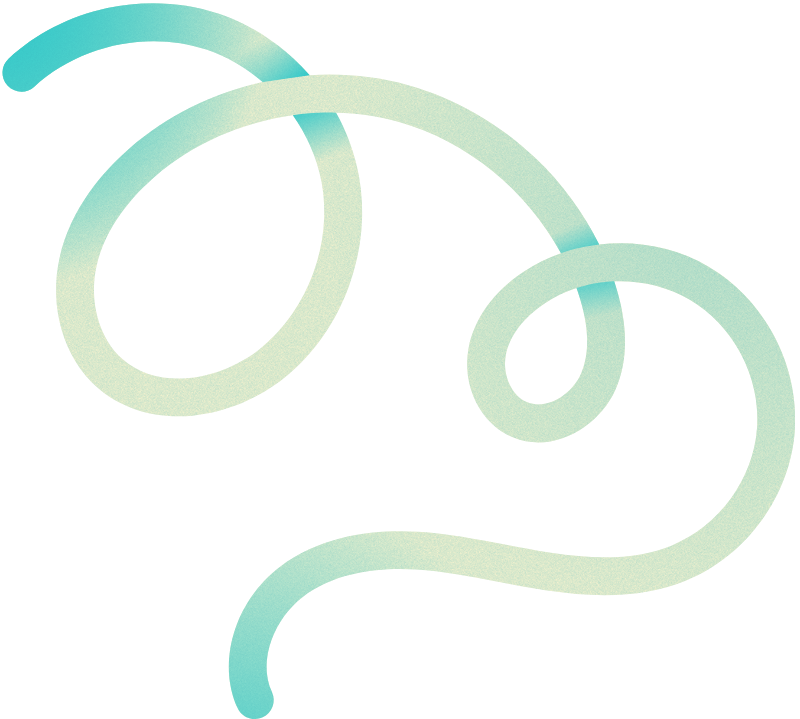
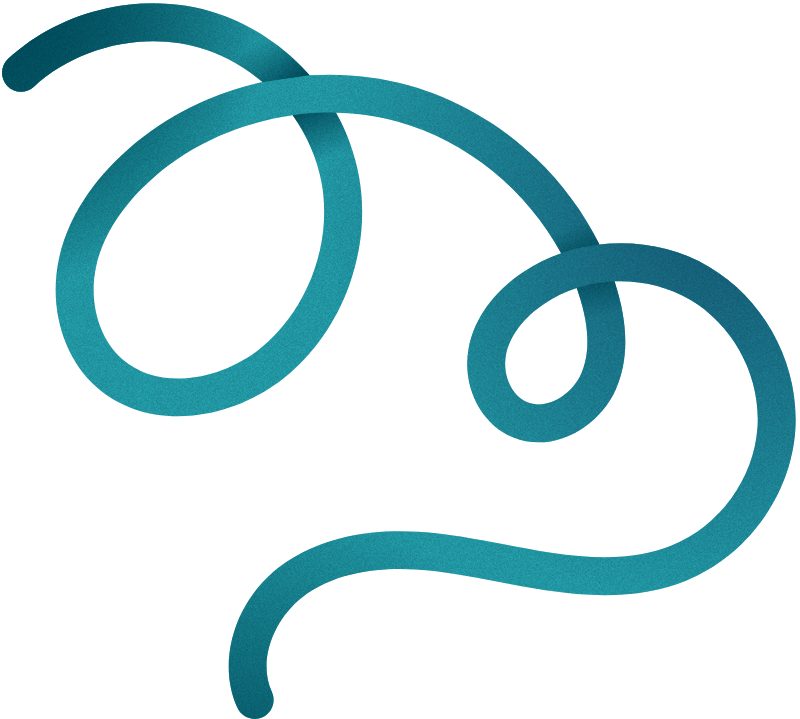
mudando design AAAAAAA

Changed region(s): [[0.0, 0.0, 1.0, 1.0]]

diff --git a/canvas.js b/canvas.js
@@ -1,9 +1,13 @@
-const canvas = document.getElementById('canvasInicial');
+const canvas = document.querySelector('canvas')
+
+const local = window.location.pathname
 
 const canvasWidth = window.innerWidth
 const canvasheight = window.innerHeight
 canvas.width = canvasWidth
 canvas.height = canvasheight
+
+console.log(window)
 var ctx = canvas.getContext('2d')
 
 var mouse = {
@@ -11,13 +15,13 @@ var mouse = {
     y: undefined
 }
 
-window.addEventListener('mousemove', (event)=>{
+window.addEventListener('mousemove', (event) => {
     const rect = canvas.getBoundingClientRect();
     mouse.x = event.clientX - rect.left;
     mouse.y = event.clientY - rect.top;
 })
 
-let colorArr = [
+let colorArrIndex = [
     '#5dd0de',
     '#f7f3cf',
     '#27b1bf',
@@ -25,38 +29,48 @@ let colorArr = [
     '#176585'
 ]
 
-function Circle(x,y,dx,dy,radius){
+let colorArr = [
+    '#ffffff'
+]
+
+
+function Circle(x, y, dx, dy, radius) {
     this.x = x;
     this.y = y;
     this.dx = dx;
     this.dy = dy;
     this.radius = radius;
-    this.color = colorArr[Math.floor(Math.random() * colorArr.length)]
+
+    if (local === '/index.html') {
+        this.color = colorArrIndex[Math.floor(Math.random() * colorArrIndex.length)]
+    } else {
+        this.color = colorArr[Math.floor(Math.random() * colorArr.length)]
+    }
 
     this.draw = () => {
         ctx.beginPath();
-        ctx.arc( this.x , this.y , this.radius, 0 , Math.PI * 2 , false)
+        ctx.arc(this.x, this.y, this.radius, 0, Math.PI * 2, false)
         ctx.strokeStyle = this.color
         ctx.fillStyle = this.color
         ctx.fill()
         ctx.stroke()
     }
 
-    this.update = ()=>{
-        if(this.x + this.radius > canvasWidth  || this.x - this.radius < 0 ){
+    this.update = () => {
+        if (this.x + this.radius > canvas.width || this.x - this.radius < 0) {
             this.dx = -this.dx;
         }
-        if(this.y + this.radius > canvasheight  || this.y - this.radius < 0 ){
+        if (this.y + this.radius > canvas.height || this.y - this.radius < 0) {
             this.dy = -this.dy;
         }
-        
+
         this.x += this.dx
         this.y += this.dy
 
         // interactivity
-        if(mouse.x - this.x < 70 && mouse.x - this.x > -70 && mouse.y - this.y < 70 && mouse.y - this.y > -70 && this.radius < 30){
+        if (mouse.x - this.x < 70 && mouse.x - this.x > -70 && mouse.y - this.y < 70 && mouse.y - this.y > -70 && this.radius < 30) {
             this.radius += 2;
-        }else if(this.radius > 5){
+        } else if (this.radius > 5) {
             this.radius -= 2;
         }
 
@@ -65,19 +79,19 @@ function Circle(x,y,dx,dy,radius){
 }
 
 let circleArr = [];
-for(let i = 0; i < 700; i++){
-    const radius =  Math.random() * 10
-    var x = Math.random() * canvasWidth;
-    var y = Math.random() * canvasheight;
+for (let i = 0; i < 700; i++) {
+    const radius = Math.random() * 10
+    var x = Math.random() * canvas.width;
+    var y = Math.random() * canvas.height;
     const dx = (Math.random() - 0.5) * 2
     const dy = (Math.random() - 0.5) * 2
-    circleArr.push(new Circle(x,y,dx,dy,radius))
+    circleArr.push(new Circle(x, y, dx, dy, radius))
 }
 
-function animate(){
+function animate() {
     requestAnimationFrame(animate);
-    ctx.clearRect(0,0, canvasWidth, canvasheight)
-    for(let i = 0; i < circleArr.length; i++){
+    ctx.clearRect(0, 0, canvas.width, canvas.height)
+    for (let i = 0; i < circleArr.length; i++) {
         circleArr[i].update();
     }
 }

diff --git a/style.css b/style.css
@@ -6,8 +6,10 @@
 body {
     margin: 0;
     padding: 0;
-    background: linear-gradient(to bottom, #002d3f, #00425c, #015d81);
+    background: #000000;
     overflow-x: hidden;
+    height: 100vh;
+    color: white;
 }
 
 #inicio {
@@ -16,14 +18,21 @@ body {
 
 #canvasInicial {
     background: linear-gradient(to bottom, #002d3f, #00425c, #015d81);
-    top: 180px;
-    left: 0vw;
-    position: absolute;
+    position: fixed;
+    top: 0;         
+    left: 0; 
+    z-index: -1;
+}
+
+#canva{
+    position: fixed; 
+    top: 0;          
+    left: 0;   
     z-index: -1;
 }
 
 #tituloIndex{
-    margin-top: 30vh;
+    margin-top: 20vh;
 }
 
 header {

diff --git a/fundsEletro.html b/fundsEletro.html
@@ -7,6 +7,7 @@
     <link rel="stylesheet" href="./style.css">
     <link rel="shortcut icon" href="./img/icon.png" type="image/x-icon">
     <script src="./index.js" defer></script>
+    <script src="./canvas.js" defer></script>
     <title>Situação de aprendizagem</title>
 </head>
 
@@ -23,6 +24,7 @@
         </header>
     </div>
     <main>
+        <canvas id="canva"></canvas>
         <h1 class="H1Paginas">Fundamentos De Eletroeletrônica:</h1>
         <h1 id="SA">S.A</h1>
         <div class="BlocoDeDecoracao"></div>
